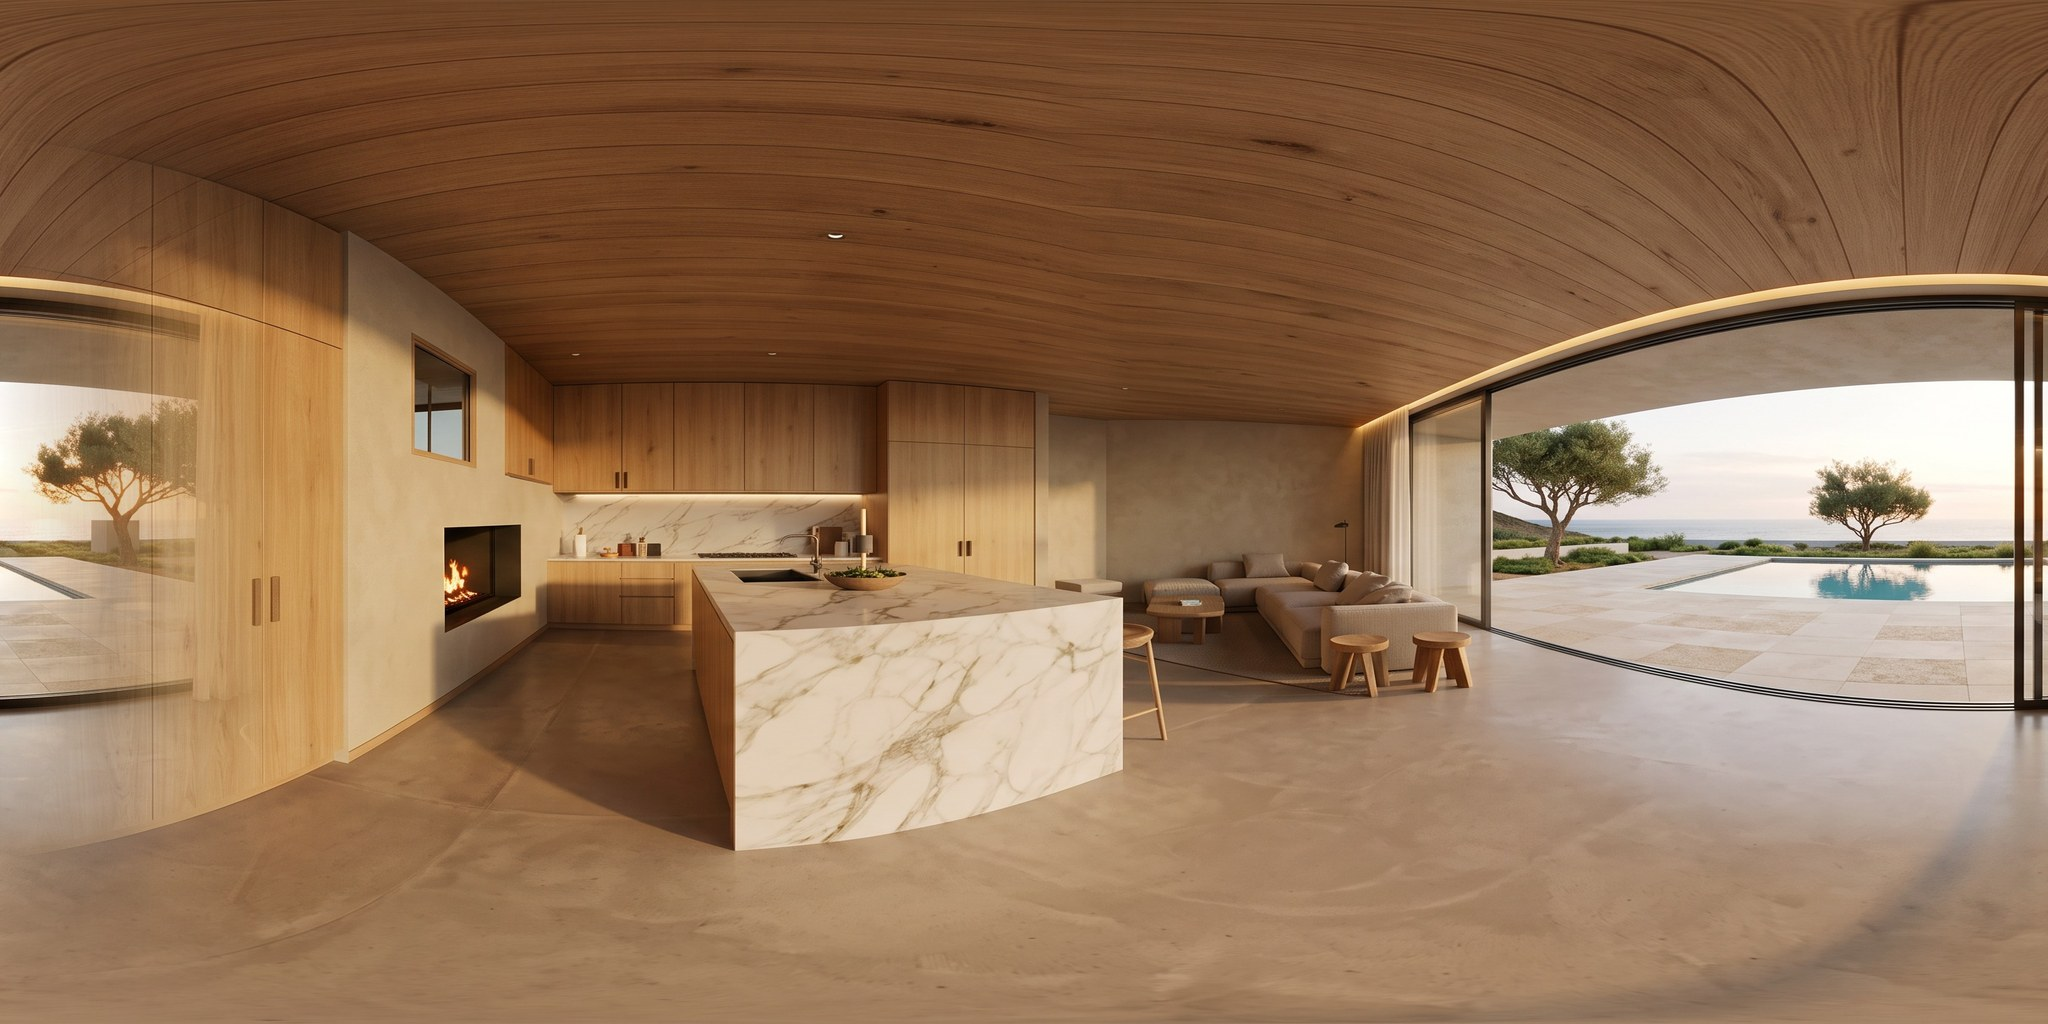
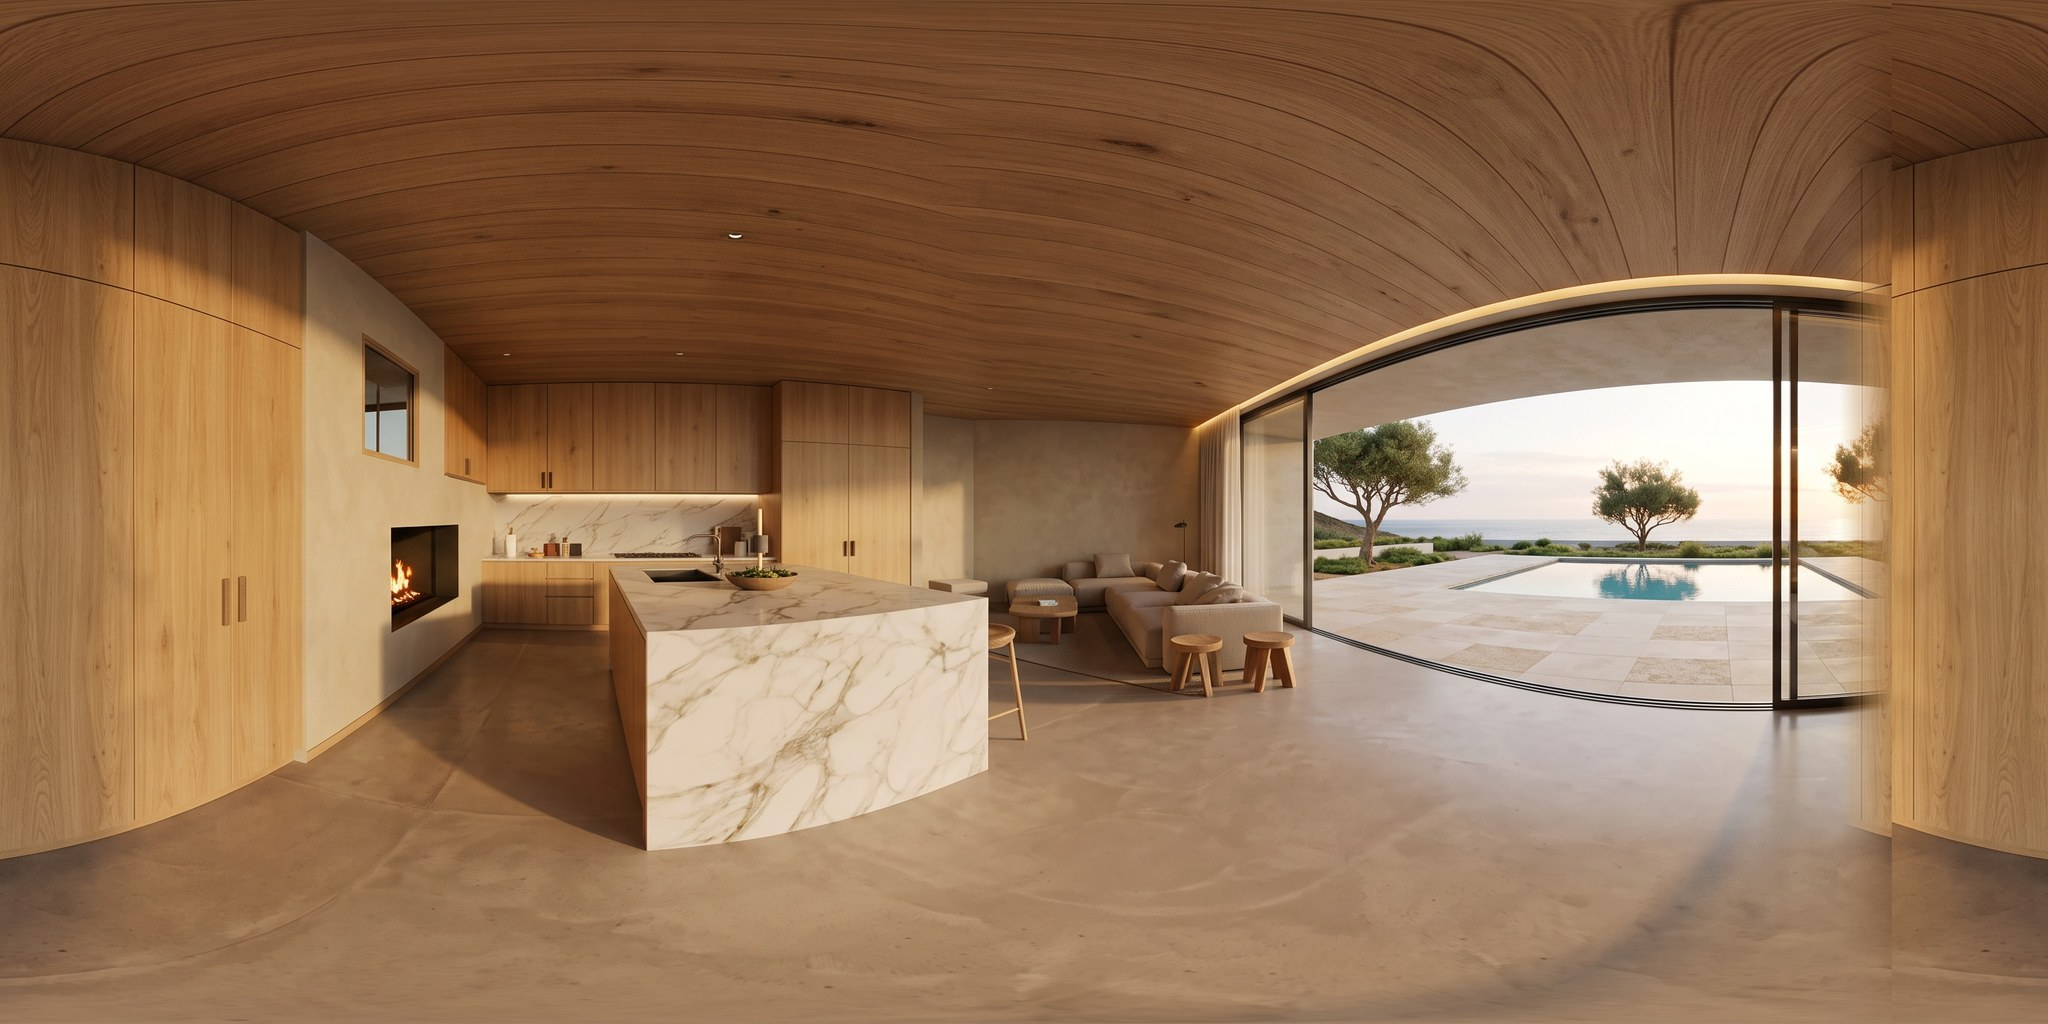
VR 360: panorama raccordato senza sfumature (specchiatura della parete armadi), ripristinato l'inizio della rotazione mantenendo il finale sulla piscina

diff --git a/index.html b/index.html
@@ -1320,7 +1320,7 @@ ancora non esiste.</p>
 
 <!-- ══ VR/AR ══ -->
 <!-- ══ VR — SCROLL ZOOM INTO GOGGLES ══ -->
-<section id="vr-scroll" style="position:relative;height:430vh;background:#000;">
+<section id="vr-scroll" style="position:relative;height:480vh;background:#000;">
   <div id="vr-sticky" style="position:sticky;top:0;height:100vh;overflow:hidden;background:#000;">
 
     <!-- Sfondo stellato -->
@@ -3306,16 +3306,16 @@ function _lightLabel(ctx,W,H,active){
     rctx.setTransform(DPR,0,0,DPR,0,0);
     rctx.clearRect(0,0,vw,vh);
 
-    // Orientamento della testa (look around): finisce a prog 0.88, così l'effetto
+    // Orientamento della testa (look around): finisce a prog 0.90, così l'effetto
     // si chiude prima e si prosegue col resto del sito
-    const lookT=smooth(clamp((prog-0.50)/0.38,0,1));
+    const lookT=smooth(clamp((prog-0.48)/0.42,0,1));
 
     if(glReady){
       // ── Proiezione prospettica corretta del 360° (WebGL) ─────────────────
-      // Rotazione limitata a ~190° e spostata verso destra: resta sempre dentro la
-      // porzione "pulita" del panorama, senza arrivare sulla zona di raccordo
-      const sweep=Math.PI*1.05;
-      const yaw=(lookT-0.5)*sweep+0.35;
+      // Rotazione da -153° a +115°: parte dall'inizio come prima e chiude sulla
+      // vetrata verso piscina e mare (il panorama è ora raccordato, niente sfumature)
+      const sweep=Math.PI*1.489;
+      const yaw=(lookT-0.5)*sweep-0.332;
       const pitch=Math.sin(lookT*Math.PI)*0.10;      // leggero sguardo in alto a metà
       gl.uniform1f(uYaw,yaw);
       gl.uniform1f(uPitch,pitch);
@@ -3328,7 +3328,7 @@ function _lightLabel(ctx,W,H,active){
       const iw=pano.naturalWidth, ih=pano.naturalHeight;
       let sw=iw*0.30, sh=sw*(vh/vw);
       if(sh>ih){ sh=ih; sw=sh*(vw/vh); }
-      const cx=(0.20+lookT*0.74)*iw;   // parte dopo la zona di raccordo del panorama
+      const cx=(0.05+lookT*0.90)*iw;
       const tiltN=Math.sin(lookT*Math.PI);
       const cy=ih/2 - tiltN*(ih*0.06);
       let sx=((cx-sw/2)%iw+iw)%iw;
